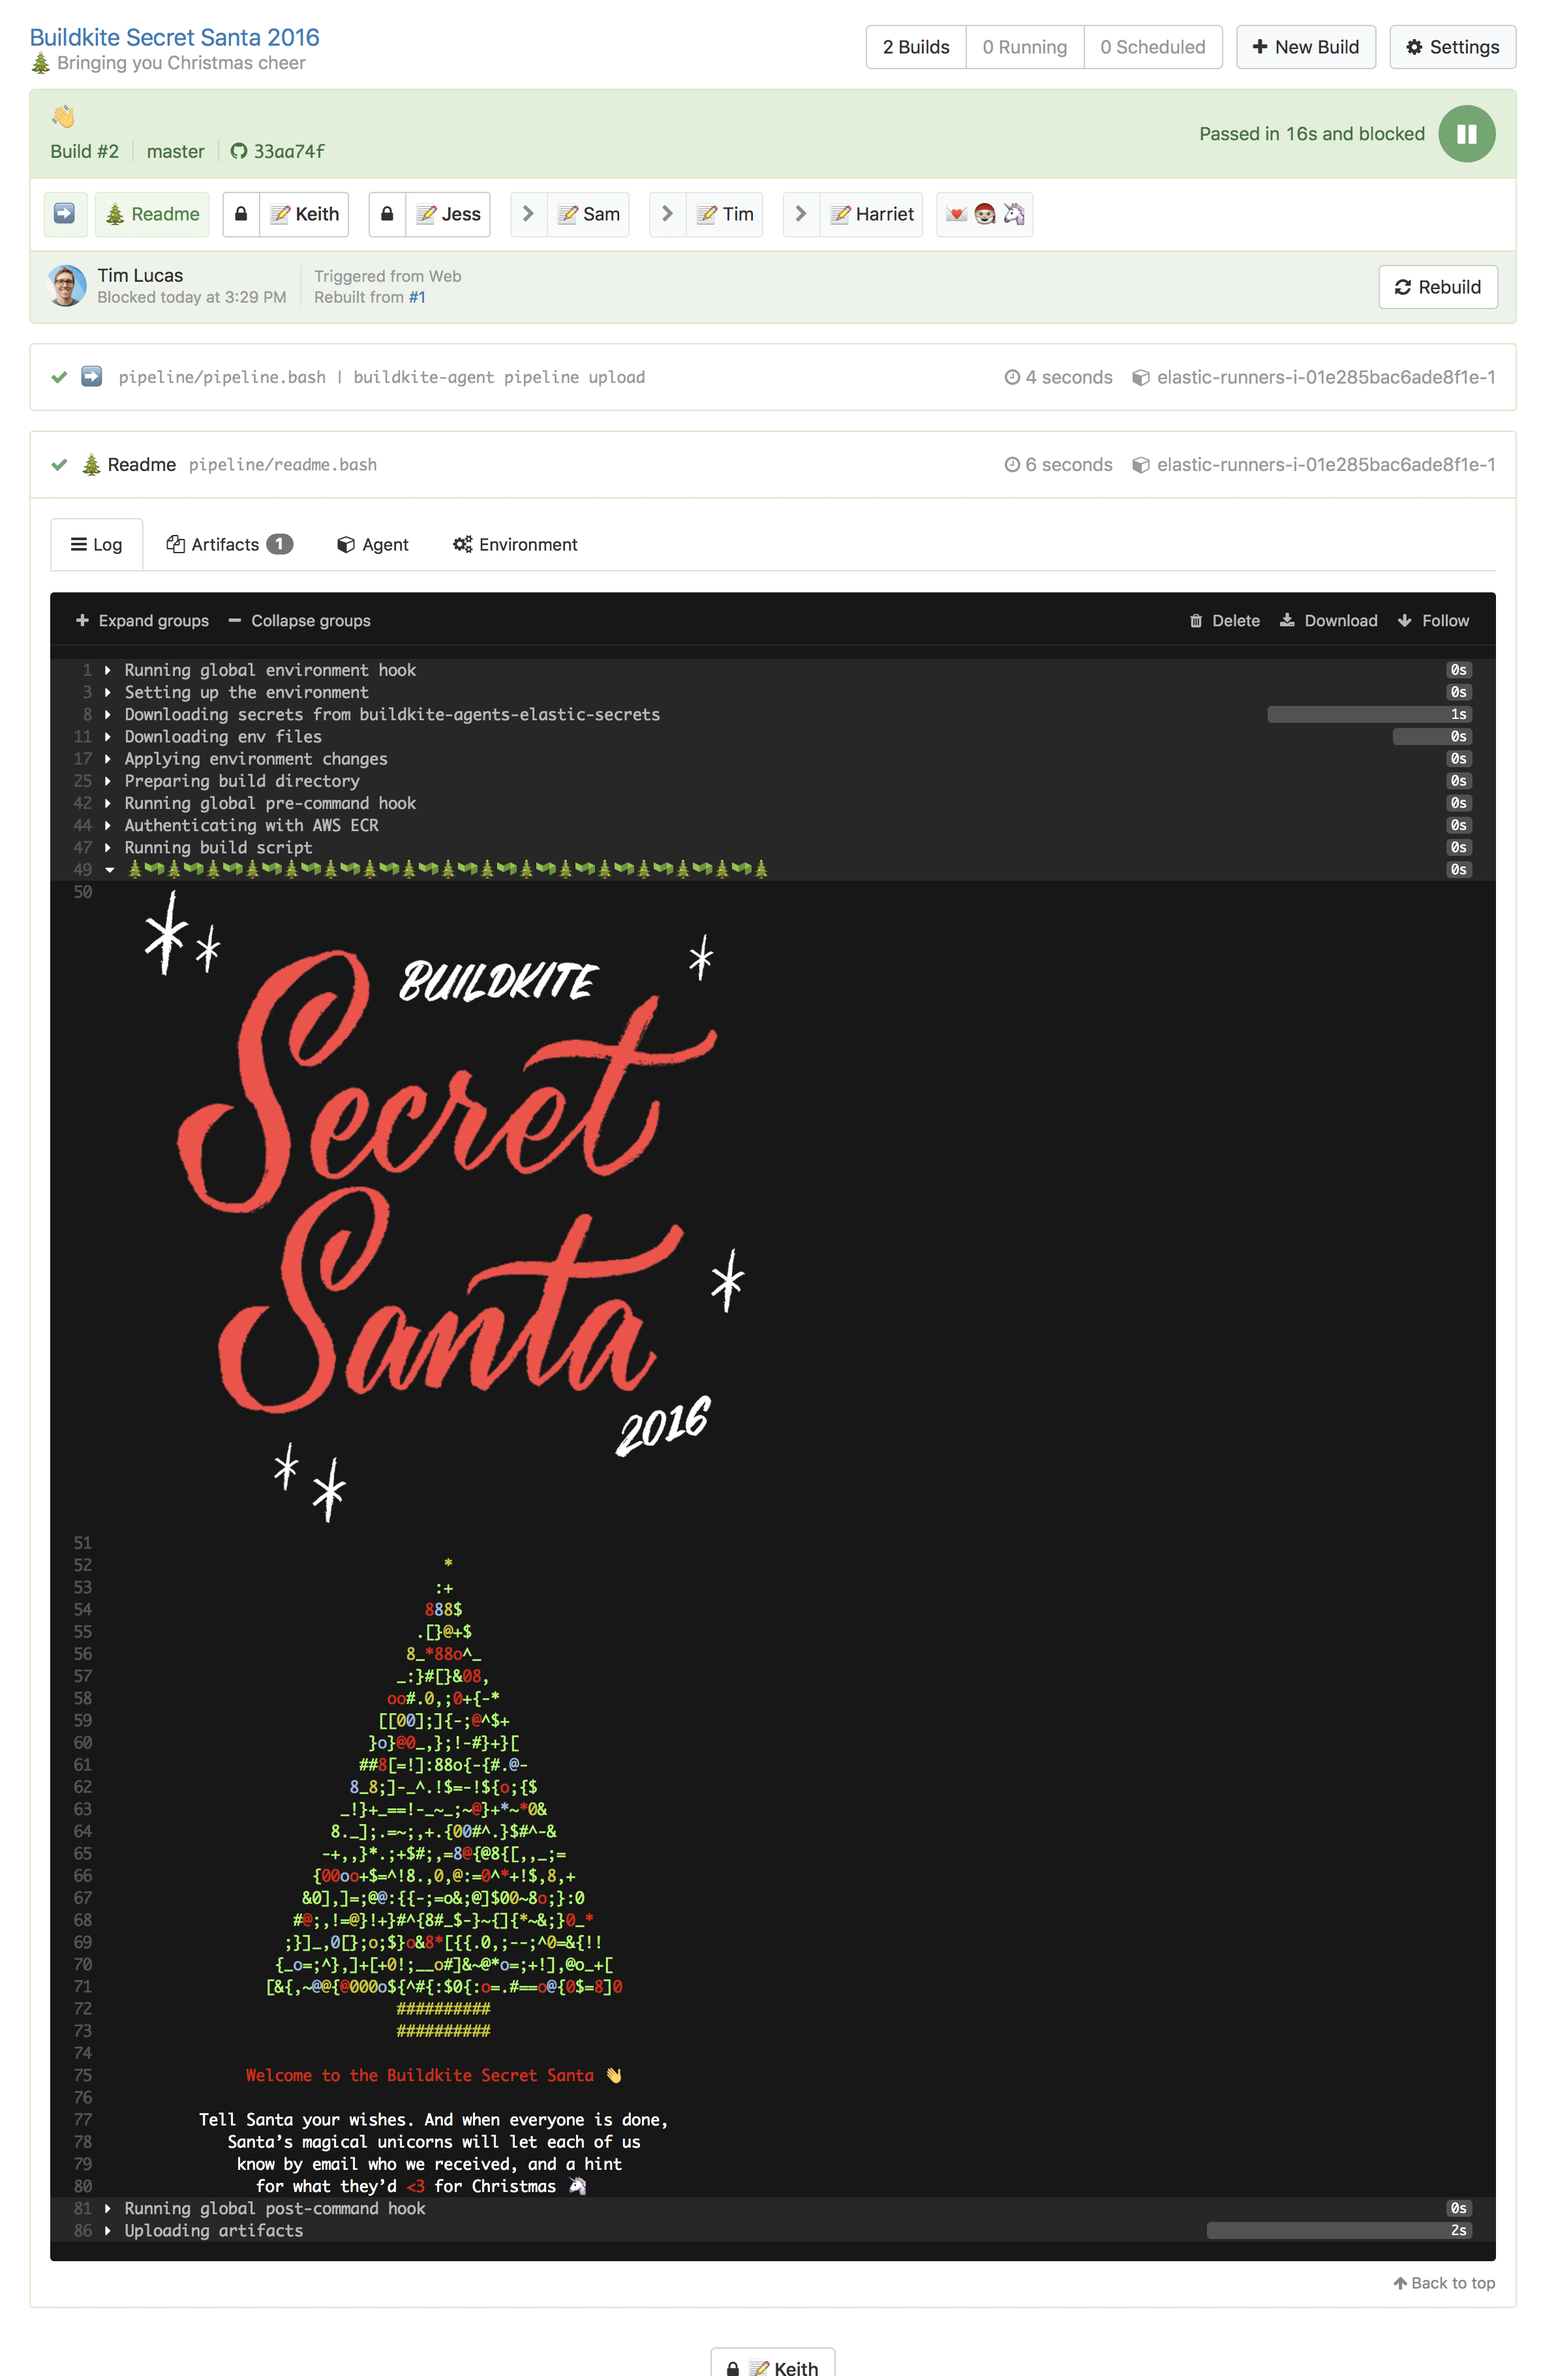
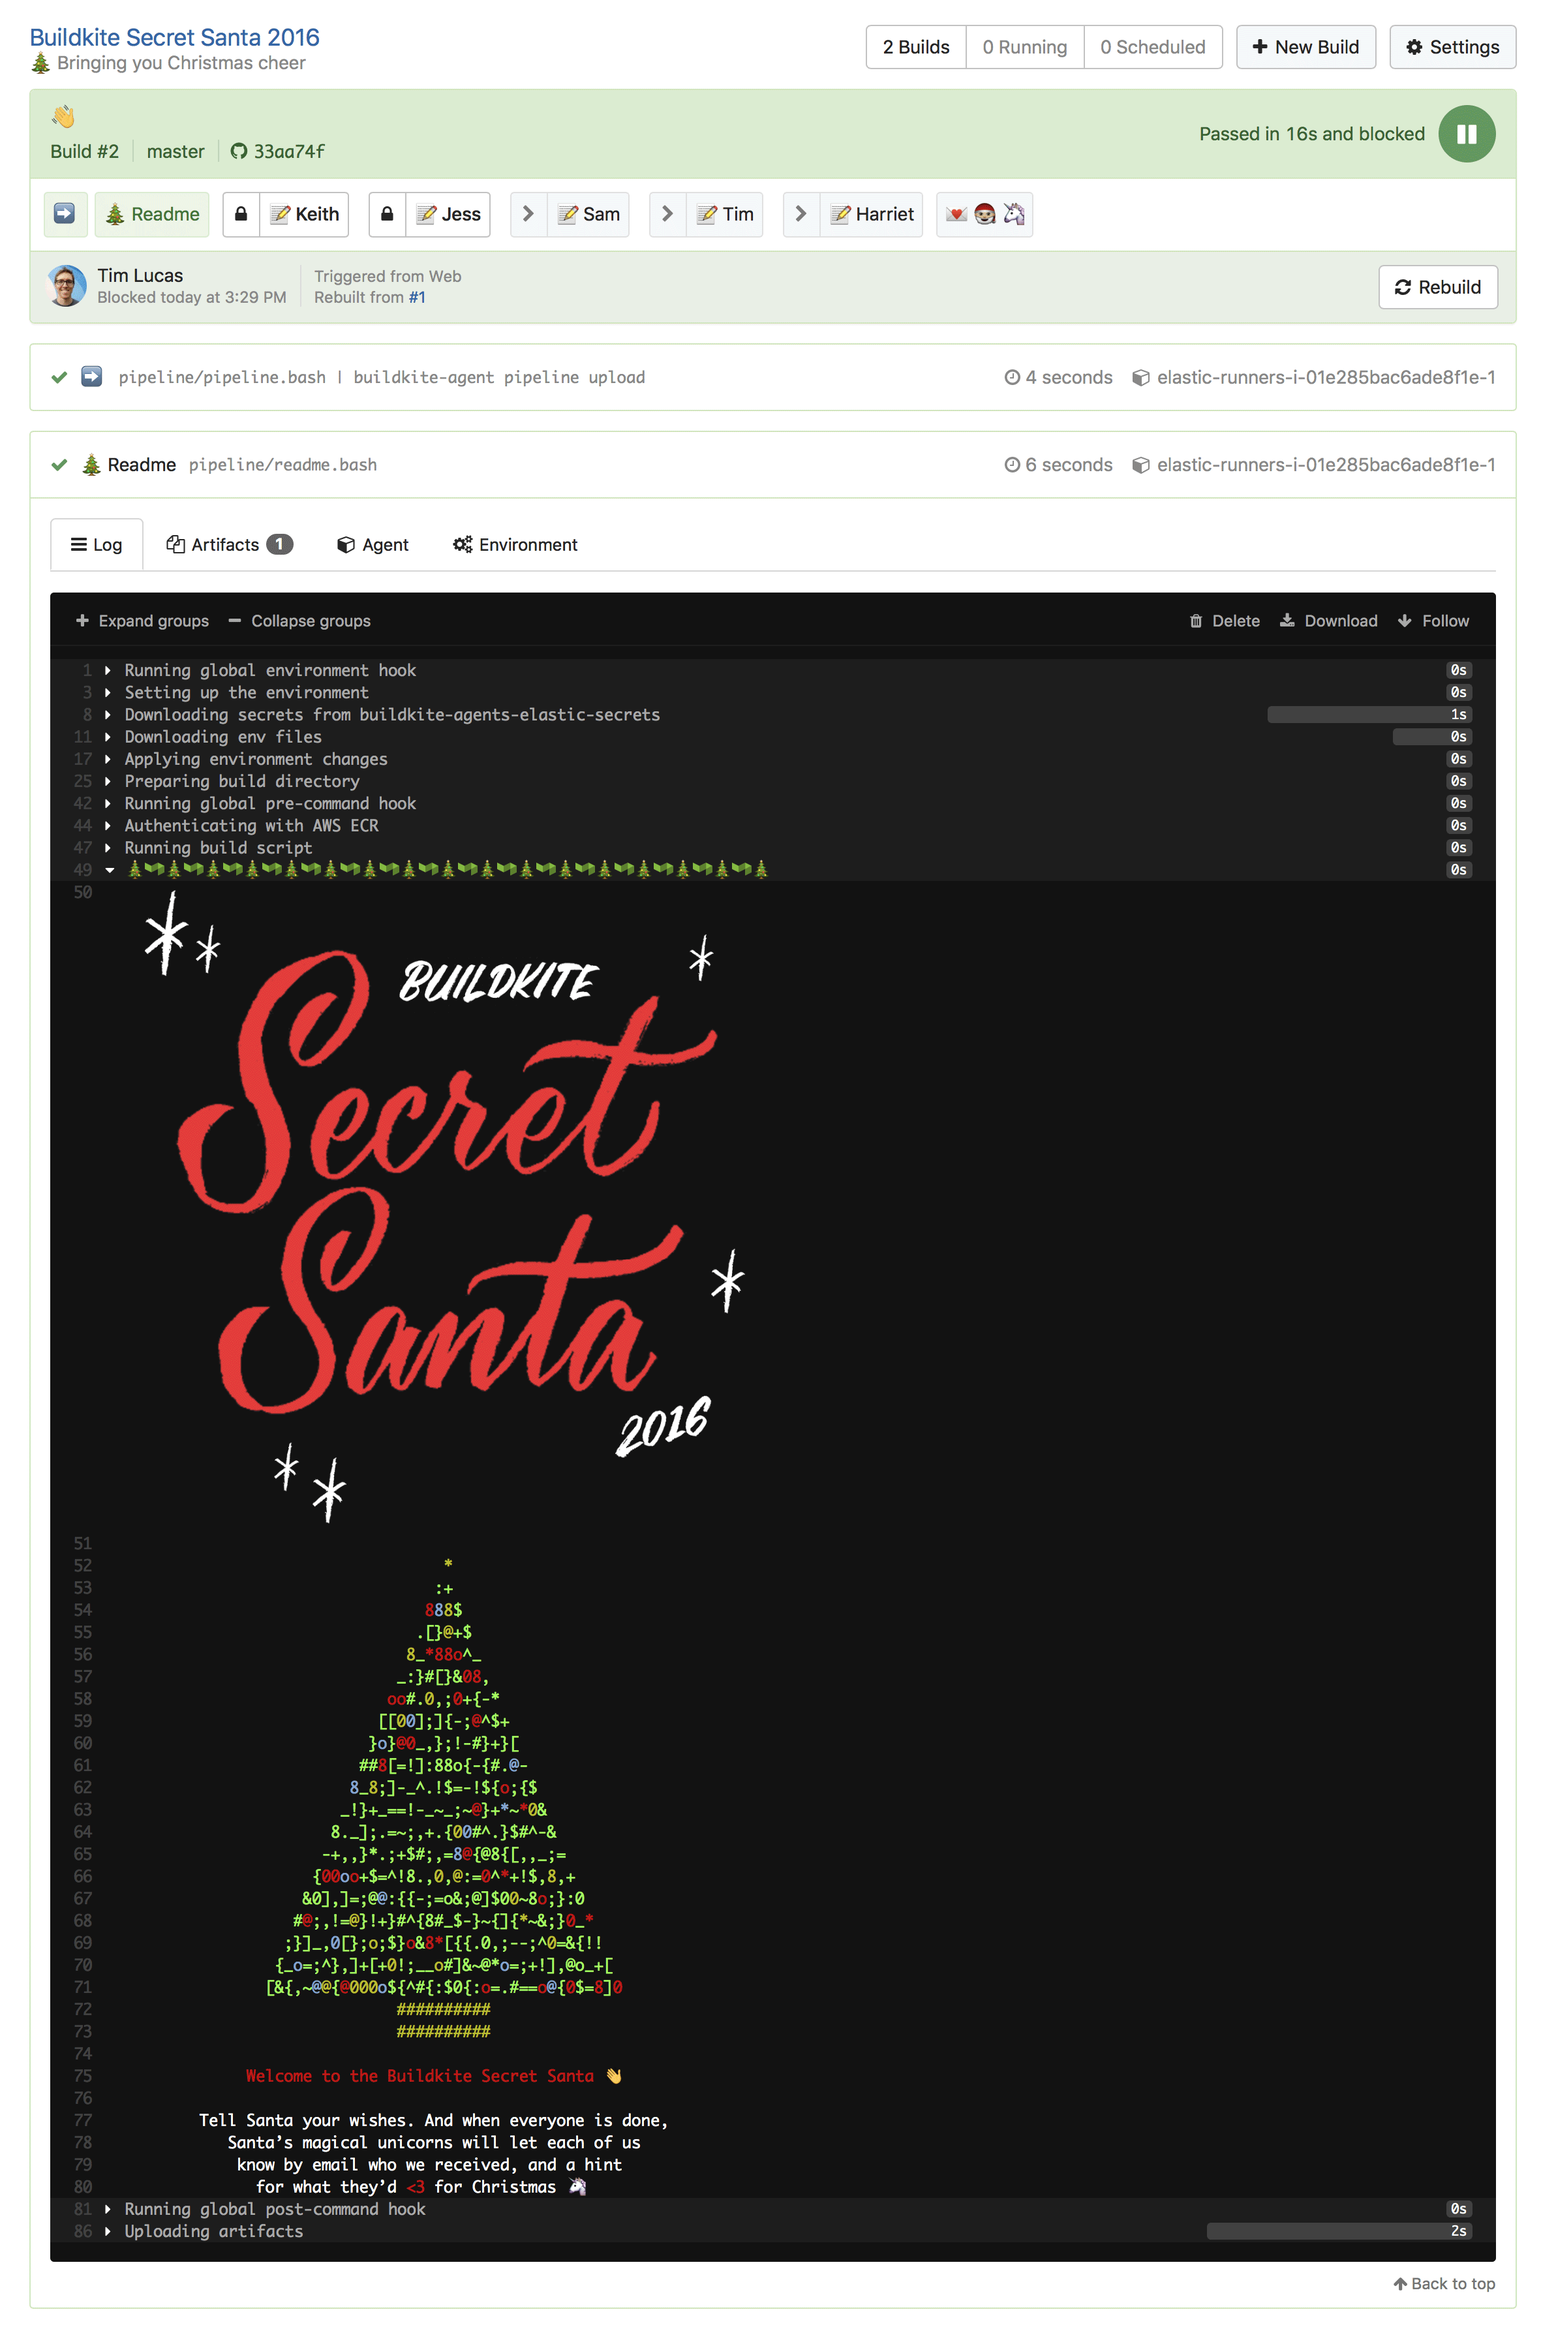
Add an animated screenshot too

diff --git a/Readme.md b/Readme.md
@@ -22,9 +22,11 @@ The webhook receiver:
 
 Massive props to the brilliant [Carla Hackett](http://carlahackett.com/) for the beaut lettering 👌
 
-## Screenshot
+## Screenshots
 
 ![Buildkite Secret Santa Pipeline](screenshot.png)
+
+<img alt="Buildkite Secret Santa 2016 Unblock Prompt Animation" src="screenshot-unblock.gif" width="724" height="506">
 
 ## License
 
